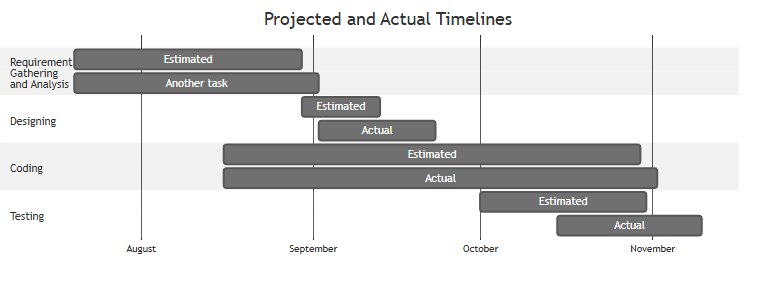
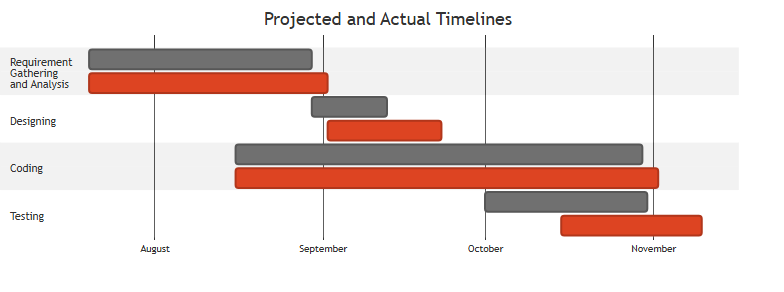
Updated Gantt chart to better match specs

diff --git a/misc/mermaid-style.css b/misc/mermaid-style.css
@@ -1,0 +1,3 @@
+svg>g:nth-of-type(4)>text {
+    display: none !important;
+}
